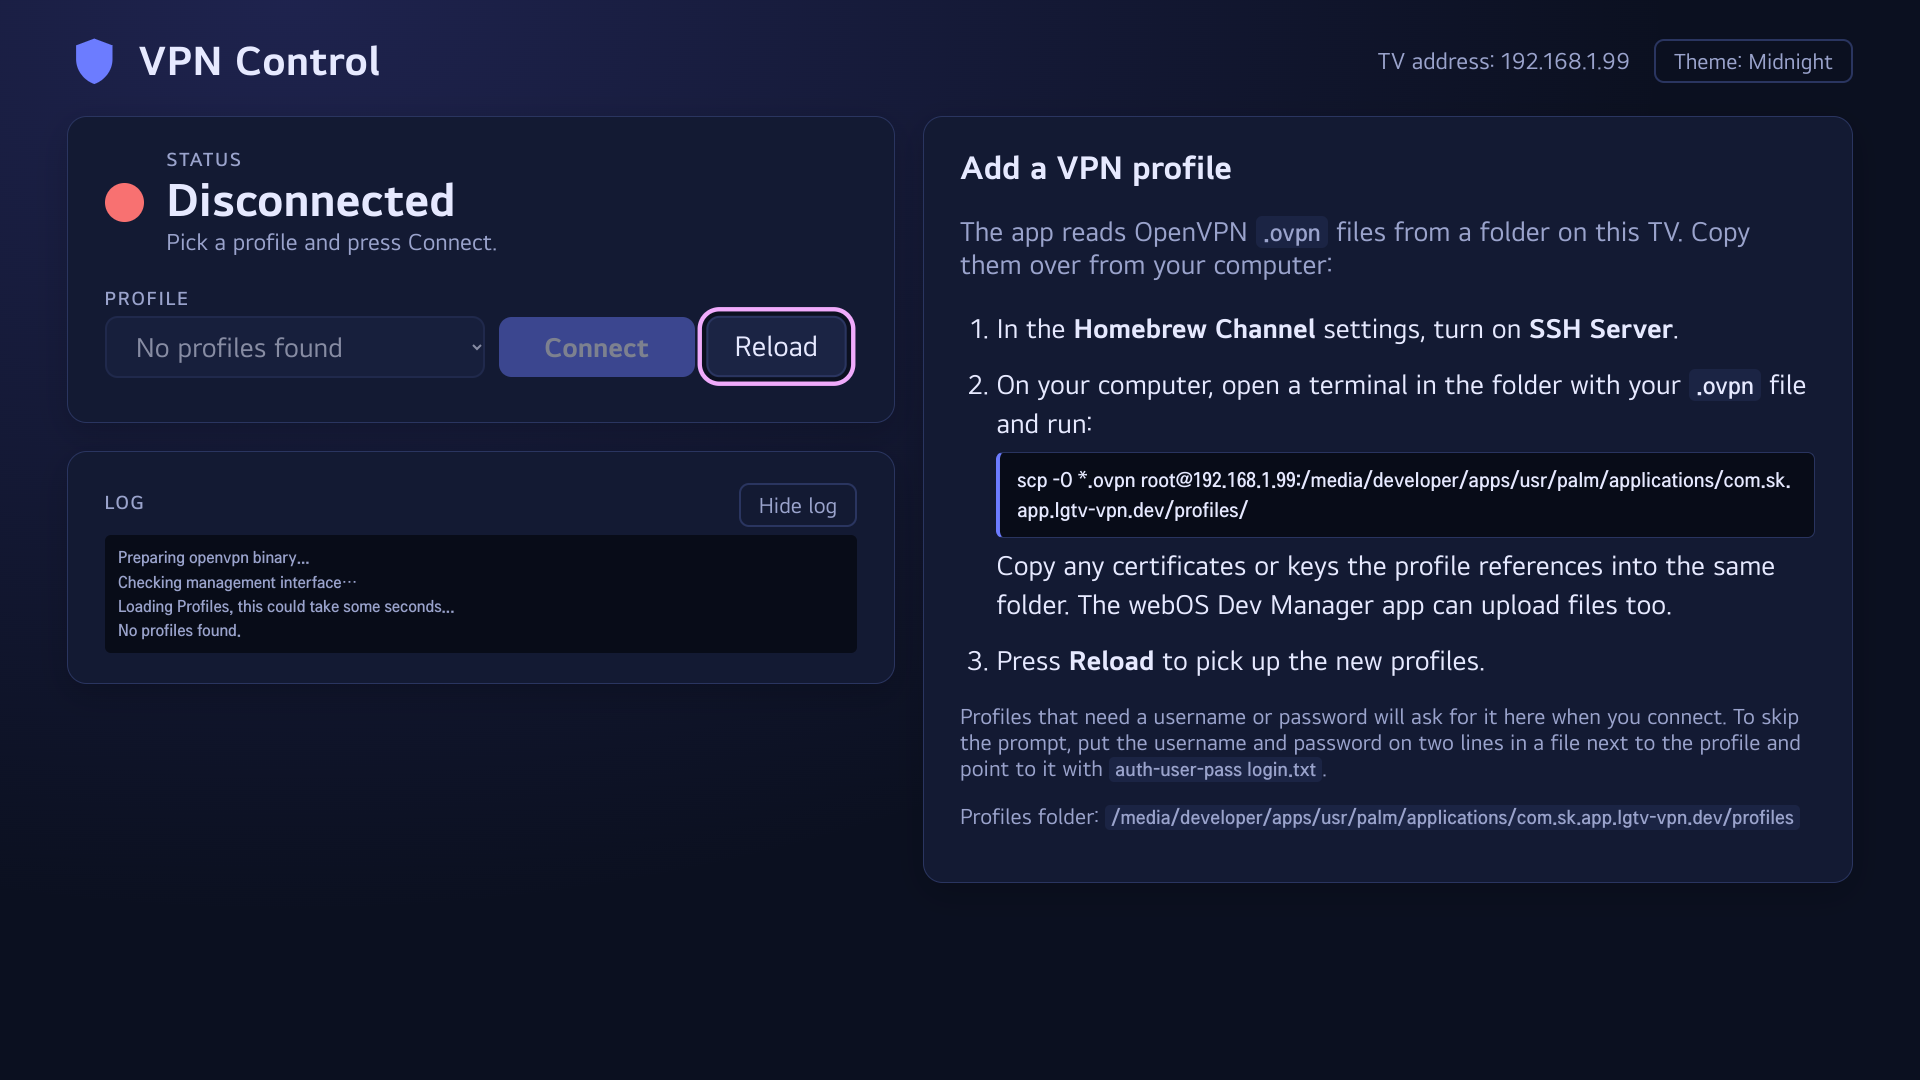
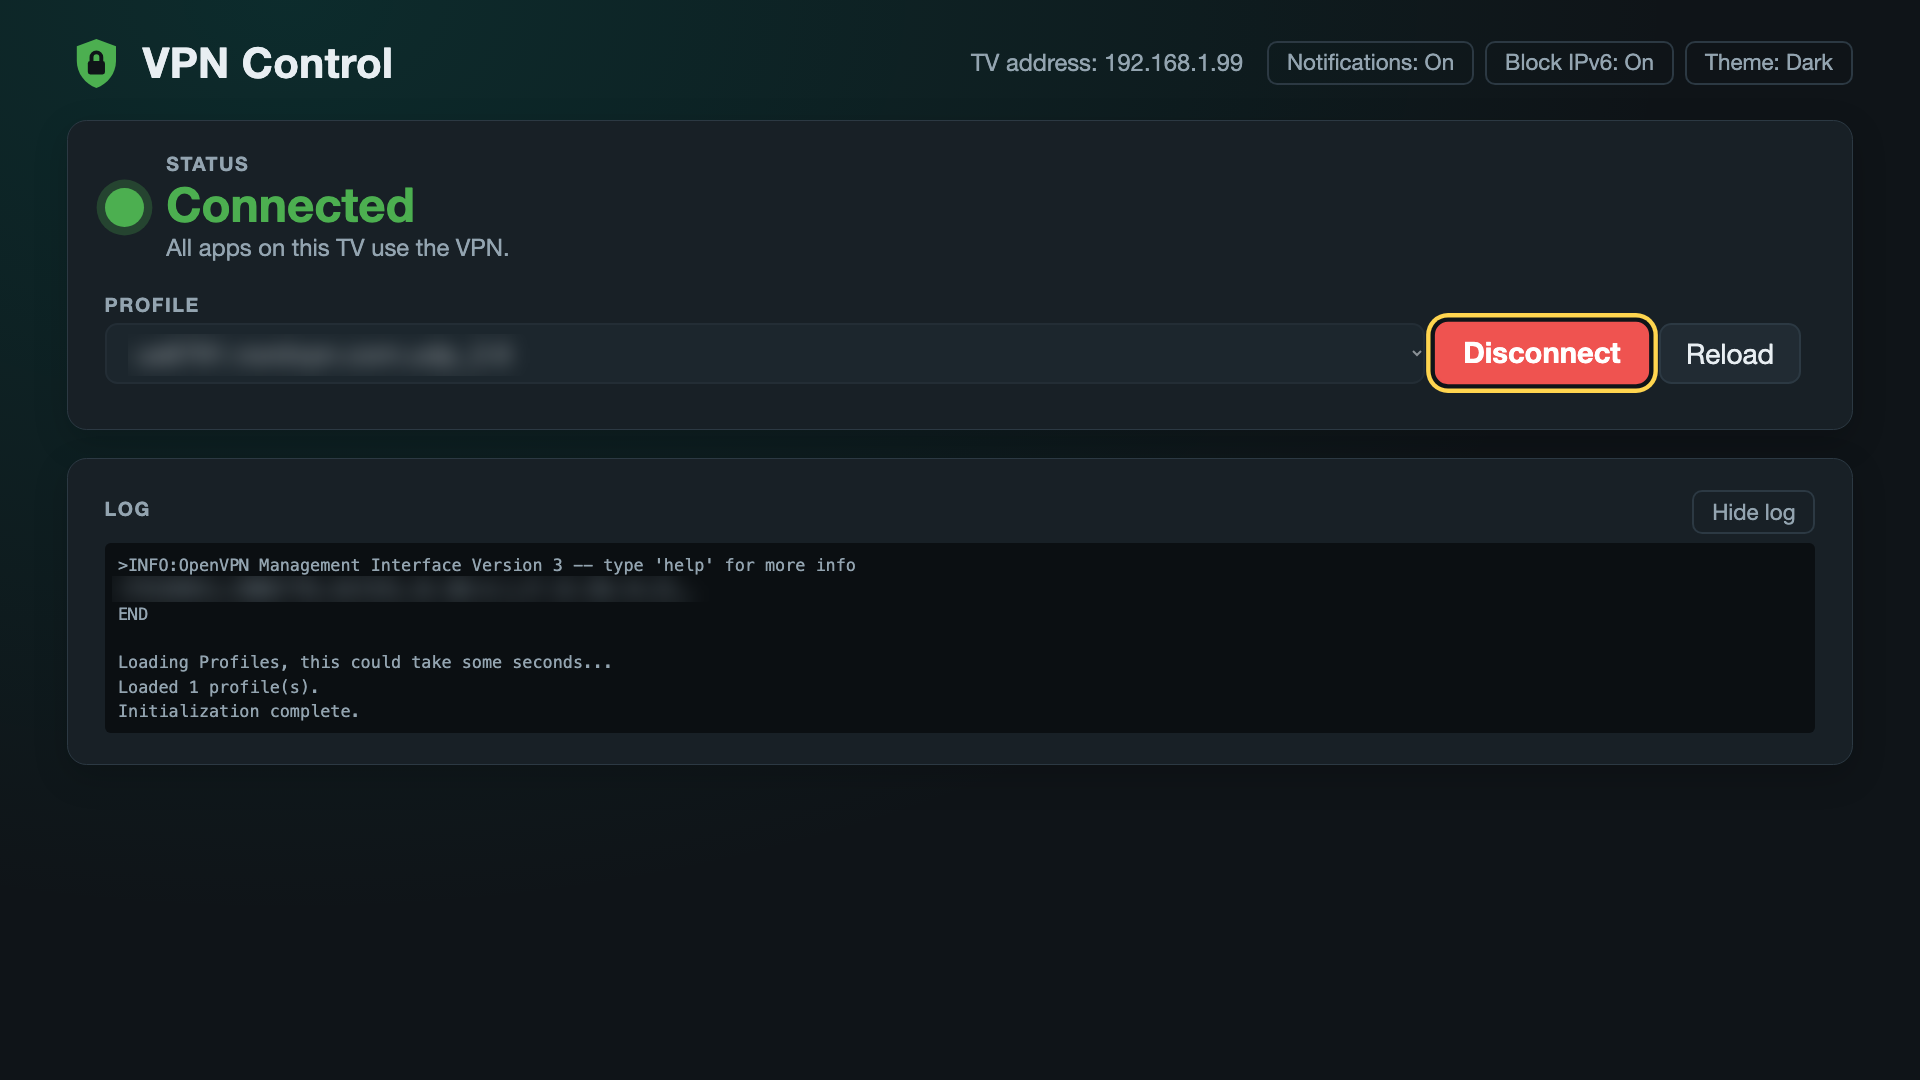
README: screenshot of the connected screen with the new switches
Rendered from the app at 1920x1080 in a browser with a mocked TV, so it
shows the Notifications and Block IPv6 switches and the connected state.
The VPN profile name and addresses are blurred.

diff --git a/README.md b/README.md
@@ -1,7 +1,7 @@
 # lgtv-vpn
 A small LG webOS TV app that wraps an OpenVPN client so you can start and stop VPN connections directly from your TV without an external router or device.
 
-<img width="1920" height="1080" alt="The app on a TV with no profiles yet: status and log on the left, setup steps with an scp command on the right" src="docs/screenshot.png" />
+<img width="1920" height="1080" alt="The app connected to a VPN profile (name and addresses blurred): green locked shield, Connected status, Disconnect button, log, and the Notifications, Block IPv6 and Theme switches in the top bar" src="docs/screenshot.png" />
 
 ## What the app does
 - Uses the bundled OpenVPN binary to start a VPN connection on your LG TV.
